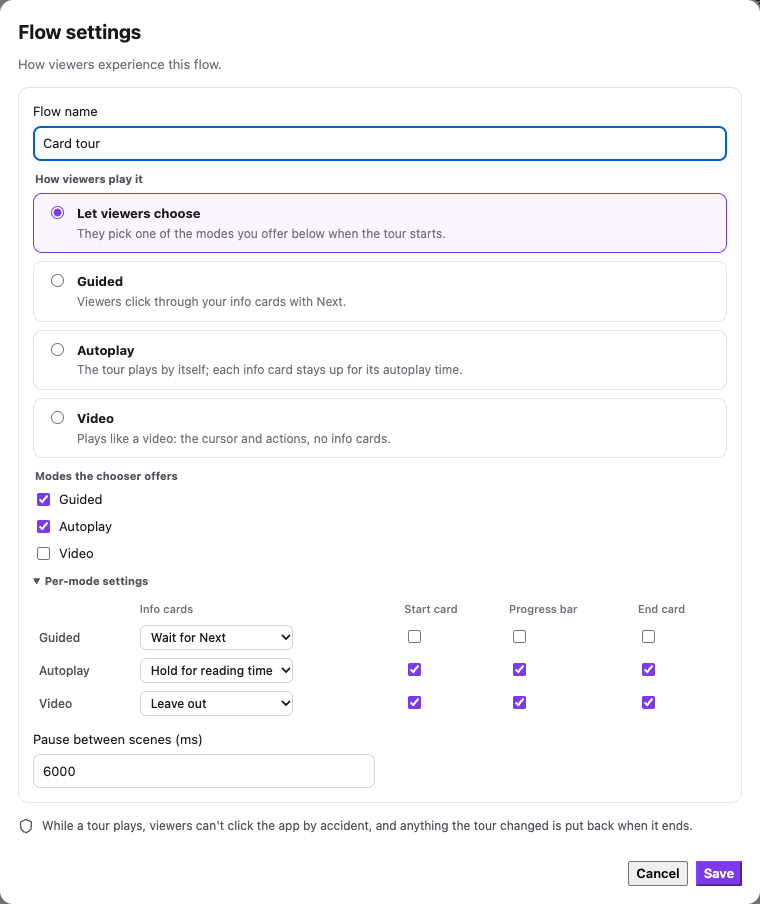
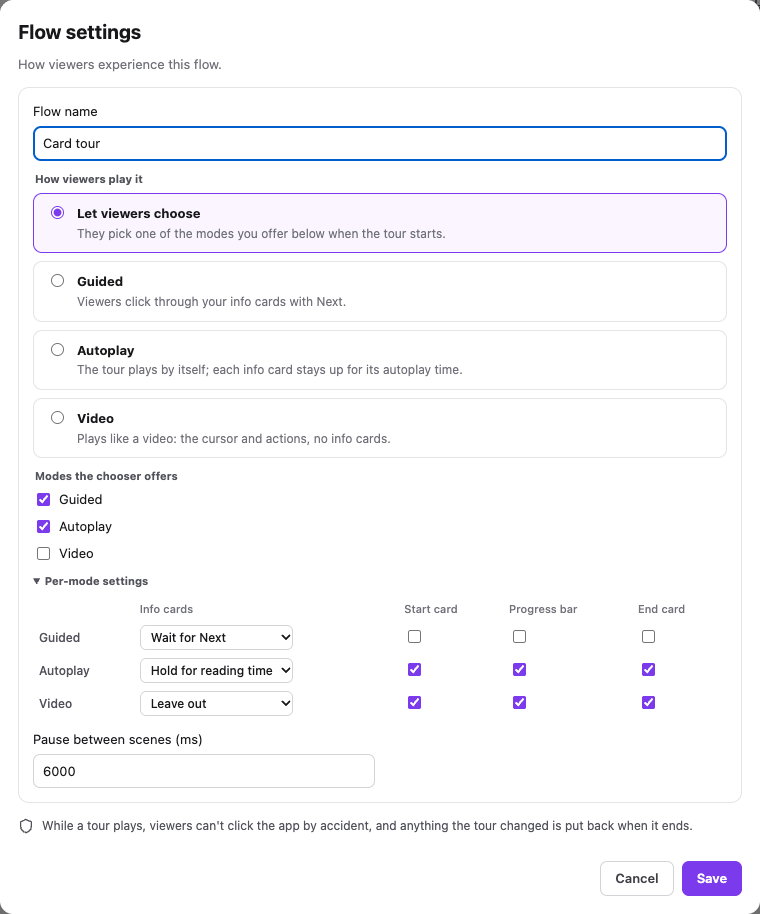
Studio: style modal footer and flow-table buttons like the toolbar buttons
Cancel/Save in every modal and the flow table's row buttons fell back to the browser's default
button look. They now share the outlined toolbar style; .sr-danger gets a red outline and hover.
Refreshed the Studio screenshots in docs/images/playback and added a before/after pair.

diff --git a/dist/projector/screenreel.css b/dist/projector/screenreel.css
@@ -223,3 +223,10 @@
 .sr-cleanup-badge{display:inline-flex;align-items:center;gap:6px;margin-top:4px;font-size:11px;color:#15803d}
 .sr-cleanup-badge.is-open{color:#a16207}
 .sr-cleanup-badge button{padding:1px 7px;border:1px solid currentColor;border-radius:6px;background:transparent;color:inherit;font-size:11px;cursor:pointer}
+/* Buttons outside the toolbars (modal footers, flow-table rows) got the browser's default look.
+   Give them the same outlined style as the toolbar buttons; .sr-primary and .sr-danger build on it. */
+.sr-studio .sr-modal-actions button,.sr-studio .sr-flow-table button{border:1px solid #d4d4d8;background:#fff;color:#3f3f46;border-radius:7px;padding:7px 14px;min-height:34px}
+.sr-studio .sr-flow-table button{padding:7px 9px}
+.sr-studio .sr-modal-actions button:hover,.sr-studio .sr-flow-table button:hover{background:#f4f4f5}
+.sr-studio .sr-danger{border-color:#fecaca!important}
+.sr-studio .sr-danger:hover{background:#fef2f2!important}

diff --git a/packages/projector/screenreel.css b/packages/projector/screenreel.css
@@ -223,3 +223,10 @@
 .sr-cleanup-badge{display:inline-flex;align-items:center;gap:6px;margin-top:4px;font-size:11px;color:#15803d}
 .sr-cleanup-badge.is-open{color:#a16207}
 .sr-cleanup-badge button{padding:1px 7px;border:1px solid currentColor;border-radius:6px;background:transparent;color:inherit;font-size:11px;cursor:pointer}
+/* Buttons outside the toolbars (modal footers, flow-table rows) got the browser's default look.
+   Give them the same outlined style as the toolbar buttons; .sr-primary and .sr-danger build on it. */
+.sr-studio .sr-modal-actions button,.sr-studio .sr-flow-table button{border:1px solid #d4d4d8;background:#fff;color:#3f3f46;border-radius:7px;padding:7px 14px;min-height:34px}
+.sr-studio .sr-flow-table button{padding:7px 9px}
+.sr-studio .sr-modal-actions button:hover,.sr-studio .sr-flow-table button:hover{background:#f4f4f5}
+.sr-studio .sr-danger{border-color:#fecaca!important}
+.sr-studio .sr-danger:hover{background:#fef2f2!important}
